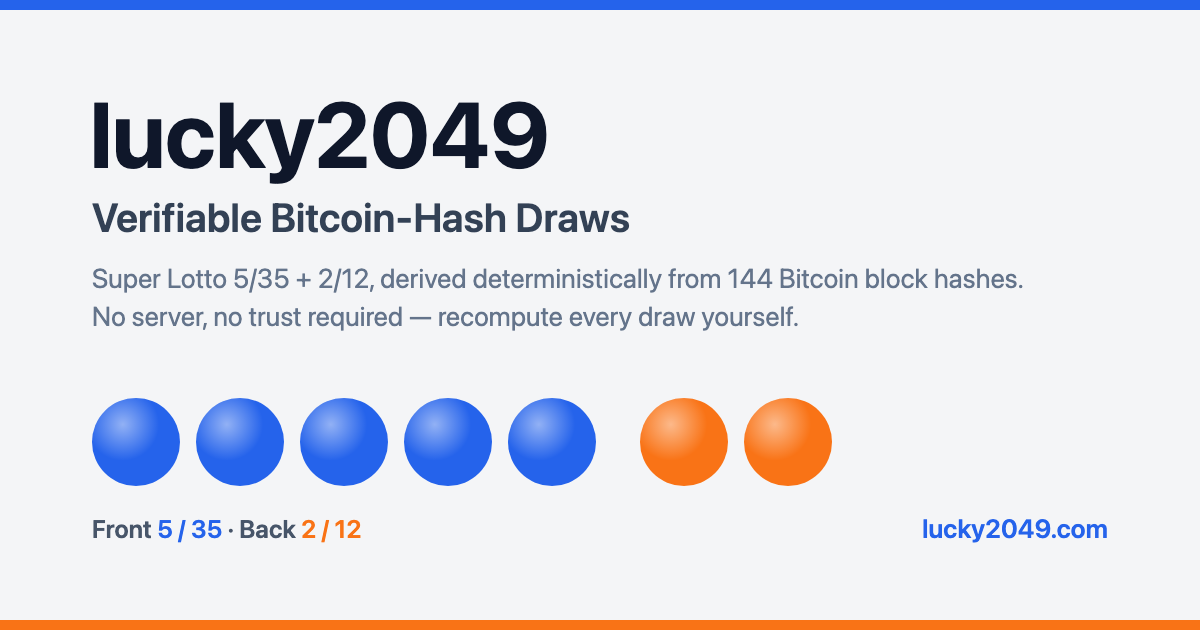
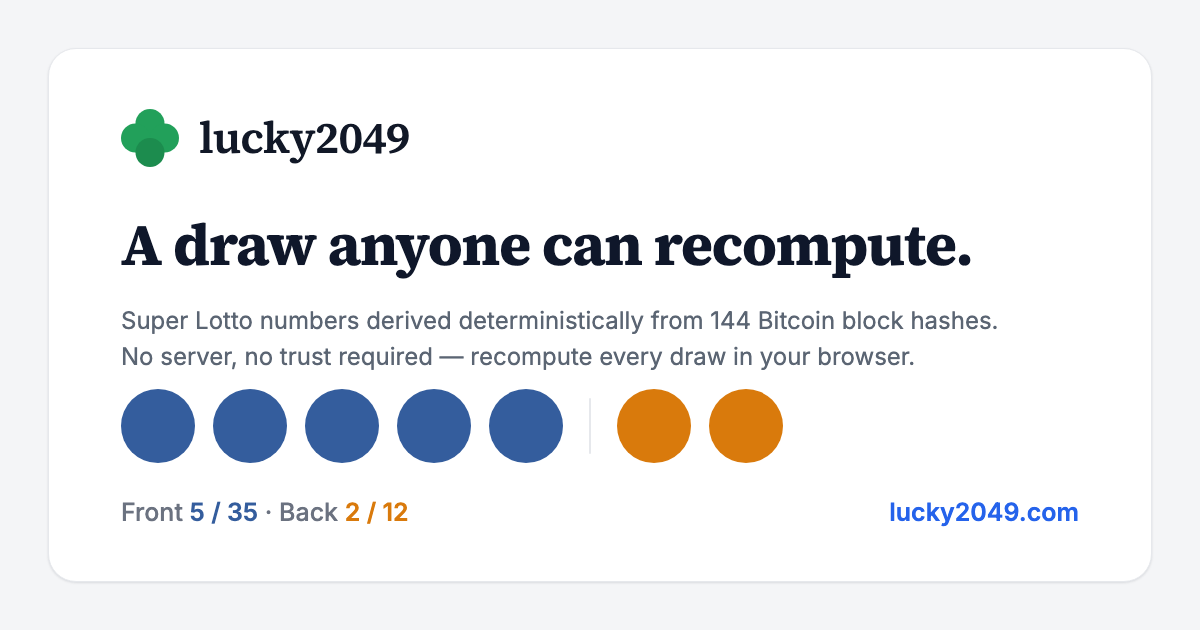
close the two deferred design items + full docs pass (5 drift fixes)
The two owner-deferred items from the design pass:
- Back-ball contrast: --ball-btc #ef8c12 (white numerals ~2.5:1, below AA) ->
  #d97a0c (~3.2:1, AA-large) with a near-identical hue; propagates everywhere via
  the token (home/table/verify/stats bars/trend). Trend's run-ink comment updated;
  the run ink itself stays #c2710a (small numerals need the darker ~4.6:1).
- og.png: regenerated as a flat-identity brand card (1200x630, headless Chrome):
  4-circle clover logo + wordmark, serif slogan "A draw anyone can recompute.",
  5 blue + 2 orange flat balls (new orange), Front 5/35 · Back 2/12, lucky2049.com.
  Still a generic card — no specific draw numbers, so it never goes stale.

Full 14-doc pass (4-reviewer sweep, every claim checked against code; 77 spot-checks
accurate, 5 real drifts fixed, EN+zh together):
- CLAUDE.md: "(no DB, no fixtures)" -> the draw-0 fixture exists (matches the
  already-fixed README/TDD wording); the anchoring gotcha rewritten — anchoring is
  automated (anchor-head.yml daily cron -> anchors/, served at /anchors/), not a TODO.
- README.md (+ zh): scripts/ structure block listed 3 of 5 — added artifacts.py and
  anchor_head.py.
- docs/DEPLOY.md (+ zh): cron-log claim showed a format that never ships; now the
  real lines (source probe + "tip <h> (quorum of 2; leading source core)").
- docs/TDD.md (+ zh): test_index_js is a stdlib text check, not a Node runner —
  inventory corrected.
[…]

diff --git a/web/trend.html b/web/trend.html
@@ -24,8 +24,8 @@
     <link rel="stylesheet" href="./style.css">
     <style>
         /* Run-ball ink (the ring + glyph of run balls). Front = the flat ball blue. Back must be
-           DARKER than the flat ball orange: --ball-btc #ef8c12 is ~2.5:1 on white (fails AA as
-           text), so run numbers use #c2710a (~4.6:1). */
+           DARKER than the flat ball orange: --ball-btc #d97a0c is ~3.2:1 on white (AA-large only,
+           too light for these small numerals), so run numbers use #c2710a (~4.6:1). */
         :root { --run-ink-front: #345d9d; --run-ink-back: #c2710a; }
 
         /* Controls: active = the site's aria-current underline idiom (accent-blue, not a black pill). */

diff --git a/static/style.css b/static/style.css
@@ -11,9 +11,11 @@
     --accent: #2563eb;
     --accent-soft: rgba(37, 99, 235, 0.08);
 
-    /* Ball colours (fixed, flat — no gradient/gloss): front = blue, back = orange */
+    /* Ball colours (fixed, flat — no gradient/gloss): front = blue, back = orange.
+       Back is #d97a0c (not the design-pass #ef8c12): white numerals need AA-large 3:1,
+       and #ef8c12 was ~2.5:1 — #d97a0c is ~3.2:1 with a near-identical hue. */
     --ball-ltc: #345d9d;
-    --ball-btc: #ef8c12;
+    --ball-btc: #d97a0c;
 
     --radius-lg: 16px;
     --radius-md: 11px;

diff --git a/CLAUDE.md b/CLAUDE.md
@@ -52,7 +52,7 @@ make install-dev   # pytest tooling only (runtime is stdlib-only)
 make test          # run once     make watch  # re-run on save (TDD loop)     make cov
 python -m unittest discover -s tests   # stdlib-only fallback (same suite)
 ```
-The suite is **stdlib + Node only** (no DB, no fixtures): golden-vector locks for
+The suite is **stdlib + Node only** (no DB; one small fixture — the SPEC draw-0 window): golden-vector locks for
 the algorithm/commitment (`test_spec_v1`, `test_commitment`), the standalone
 verifier (`test_verify_site`), and the in-browser JS run under Node
 (`test_verify_js`, `test_stats_js`). Write tests first — see `docs/TDD.md`.
@@ -99,8 +99,11 @@ verifier (`test_verify_site`), and the in-browser JS run under Node
   `gh-pages` republish drops the domain → 404. Both publishers copy it.
 - `data/database.db` is an **optional local cache** (gitignored, ~170MB, NOT in the
   repo), only read by `export_static.py` for a local rebuild. The cron never uses it.
-- Anchor `head.json` externally (OpenTimestamps / git tag) to make history truly
-  tamper-evident — code provides the chain, anchoring is the rest.
+- `head.json` is anchored **automatically**: `.github/workflows/anchor-head.yml` (daily
+  cron) runs `scripts/anchor_head.py` + OpenTimestamps (`ots stamp`) and commits proofs
+  to `anchors/` on `main`; `refresh-pages.yml` serves them at `/anchors/` and excludes
+  that dir from its rsync `--delete`. Don't break this path — the commitment chain alone
+  isn't tamper-evident without the external anchor.
 - The old FastAPI server + DB + Docker/Render are gone from `main`; recover from the
   `v1-server` tag if you ever need a live API.
 - macOS system `python3` is 3.9; use `./.venv` (3.13) for anything real.

diff --git a/docs/zh/TDD.md b/docs/zh/TDD.md
@@ -40,8 +40,8 @@ python -m unittest discover -s tests                      # 不依赖 pytest 的
   对着 `verify.py` 和 `SPEC.md` 复算。
 - **浏览器内 JS** —— `tests/test_verify_js.py`、`tests/test_stats_js.py`、`tests/test_random_js.py`
   和 `tests/test_trend_js.py` 在 Node 里跑 `static/verify.js` / `static/stats.js` / `static/randomness.js` /
-  `static/trend.js`,检查它们复现出 Python 的结果(及冻结的黄金值)。`tests/test_index_js.py` 与
-  `tests/test_verify_fetch_js.py` 同样在 Node 里跑页面内联逻辑 —— 首页的下一期 ETA 窗口,以及 verify.html 的 144 哈希抓取/拼装 + 通过/失败裁决。Node 缺失时自动跳过。(页面结构 —— 共享导航、统计页措辞、首页去重 —— 由纯标准库的 `tests/test_pages.py` 守护。)
+  `static/trend.js`,检查它们复现出 Python 的结果(及冻结的黄金值)。`tests/test_verify_fetch_js.py`
+  同样在 Node 里跑 verify.html 的页面内联逻辑 —— 144 哈希抓取/拼装 + 通过/失败裁决。基于 Node 的测试在 Node 缺失时自动跳过。(页面结构 —— 共享导航、统计页措辞、首页去重、首页下一期 ETA 目标 —— 由纯标准库的 `tests/test_pages.py` 与 `tests/test_index_js.py` 文本断言守护。)
 
 `tests/test_verify_site.py` 用 mock 掉的 HTTP 覆盖 `verify.py --site` 的链路(实时 API + 静态
 `index.json` 回退)—— 不联网。

diff --git a/docs/TDD.md b/docs/TDD.md
@@ -43,11 +43,11 @@ The site is static, so the tests pin the two things that matter:
 - **The in-browser JS** — `tests/test_verify_js.py`, `tests/test_stats_js.py`,
   `tests/test_random_js.py`, and `tests/test_trend_js.py` run `static/verify.js` /
   `static/stats.js` / `static/randomness.js` / `static/trend.js` under Node and check
-  they reproduce the Python result (and frozen golden values). `tests/test_index_js.py`
-  and `tests/test_verify_fetch_js.py` likewise run the inline page logic under Node — the
-  homepage's next-draw ETA window and verify.html's 144-hash fetch/assembly + the pass/fail
-  verdict. They self-skip if Node is absent. (Page structure — the shared nav, the stats read,
-  the homepage de-dup — is guarded by the stdlib `tests/test_pages.py`.)
+  they reproduce the Python result (and frozen golden values). `tests/test_verify_fetch_js.py`
+  likewise runs verify.html's inline page logic under Node — the 144-hash fetch/assembly +
+  the pass/fail verdict. The Node-based tests self-skip if Node is absent. (Page structure —
+  the shared nav, the stats read, the homepage de-dup, the homepage's next-draw ETA target —
+  is guarded by the stdlib `tests/test_pages.py` and `tests/test_index_js.py` text checks.)
 
 `tests/test_verify_site.py` covers the `verify.py --site` plumbing (live API +
 static `index.json` fallback) with mocked HTTP — no network.

diff --git a/README.md b/README.md
@@ -145,6 +145,8 @@ verify.py       standalone engine (stdlib, single copyable file): the `generate`
 scripts/
   extend_pages.py  cron drawer/publisher: extend index.json from the chain (stdlib, reuses verify.py, no DB)
   export_static.py rebuild the whole index.json + site from a local SQLite cache (stdlib sqlite3) — initial build / disaster recovery
+  artifacts.py     downstream beacon artifacts (latest.json / feed.json / status.json source-health); written by both publishers
+  anchor_head.py   stamps the published head for OpenTimestamps anchoring (run daily by anchor-head.yml)
   publish-pages.sh manual publish (export_static + push gh-pages); use the cron normally, pick one
 web/            index.html (home + next-draw ETA) / verify.html / stats.html / trend.html (trend chart) / randomness.html (coin/dice demo) + og.png + CNAME
 static/         verify.js (verifier), stats.js (frequency + chi-square), trend.js (trend chart), randomness.js (coin/dice demo), style.css, favicon.svg — own algorithm, no external scripts

diff --git a/docs/zh/README.md b/docs/zh/README.md
@@ -117,6 +117,8 @@ verify.py       独立引擎(标准库,单文件可复制):算法 generate、承
 scripts/
   extend_pages.py  cron 开奖+发布:从链上扩展 index.json(stdlib,复用 verify.py,无 DB)
   export_static.py 从本地 SQLite 缓存(stdlib sqlite3)重建整个 index.json + 站点(初建/灾备)
+  artifacts.py     下游信标产物(latest.json / feed.json / status.json 源健康);两个发布器都会写
+  anchor_head.py   为已发布的链头打 OpenTimestamps 锚点(由 anchor-head.yml 每日运行)
   publish-pages.sh 手动发布(调 export_static + 推 gh-pages);常态用 cron,二选一
 web/            index.html(首页+下一期预计)/ verify.html / stats.html / trend.html(走势图)/ randomness.html(抛硬币/掷骰子演示)+ og.png + CNAME
 static/         verify.js(验证器)、stats.js(频率+卡方)、trend.js(走势图)、randomness.js(抛硬币/掷骰子演示)、style.css、favicon.svg —— 自带算法、无外部脚本

diff --git a/docs/DEPLOY.md b/docs/DEPLOY.md
@@ -79,7 +79,8 @@ vote is simply absent; the two explorers still satisfy `MIN_SOURCE_AGREEMENT=2` 
 continues. Node still in initial block download → it abstains from the chain tip (stale height
 must not delay draws) while still answering hash queries from its header index. A pruned node is
 fine — block hashes and header timestamps come from the header index at any height. The cron log
-shows which source served the tip (`tip <h> (via core)`) and who agreed on each draw's hashes.
+shows each source's probe (`source core: ok tip=<h> (12ms)`), the quorum tip and which source led
+it (`tip <h> (quorum of 2; leading source core)`), and who agreed on each draw's hashes.
 
 **Monitoring your node:** every hourly run probes all sources and publishes the results to
 [`status.json`](https://lucky2049.com/status.json) (per source: ok / tip / latency / error), also
